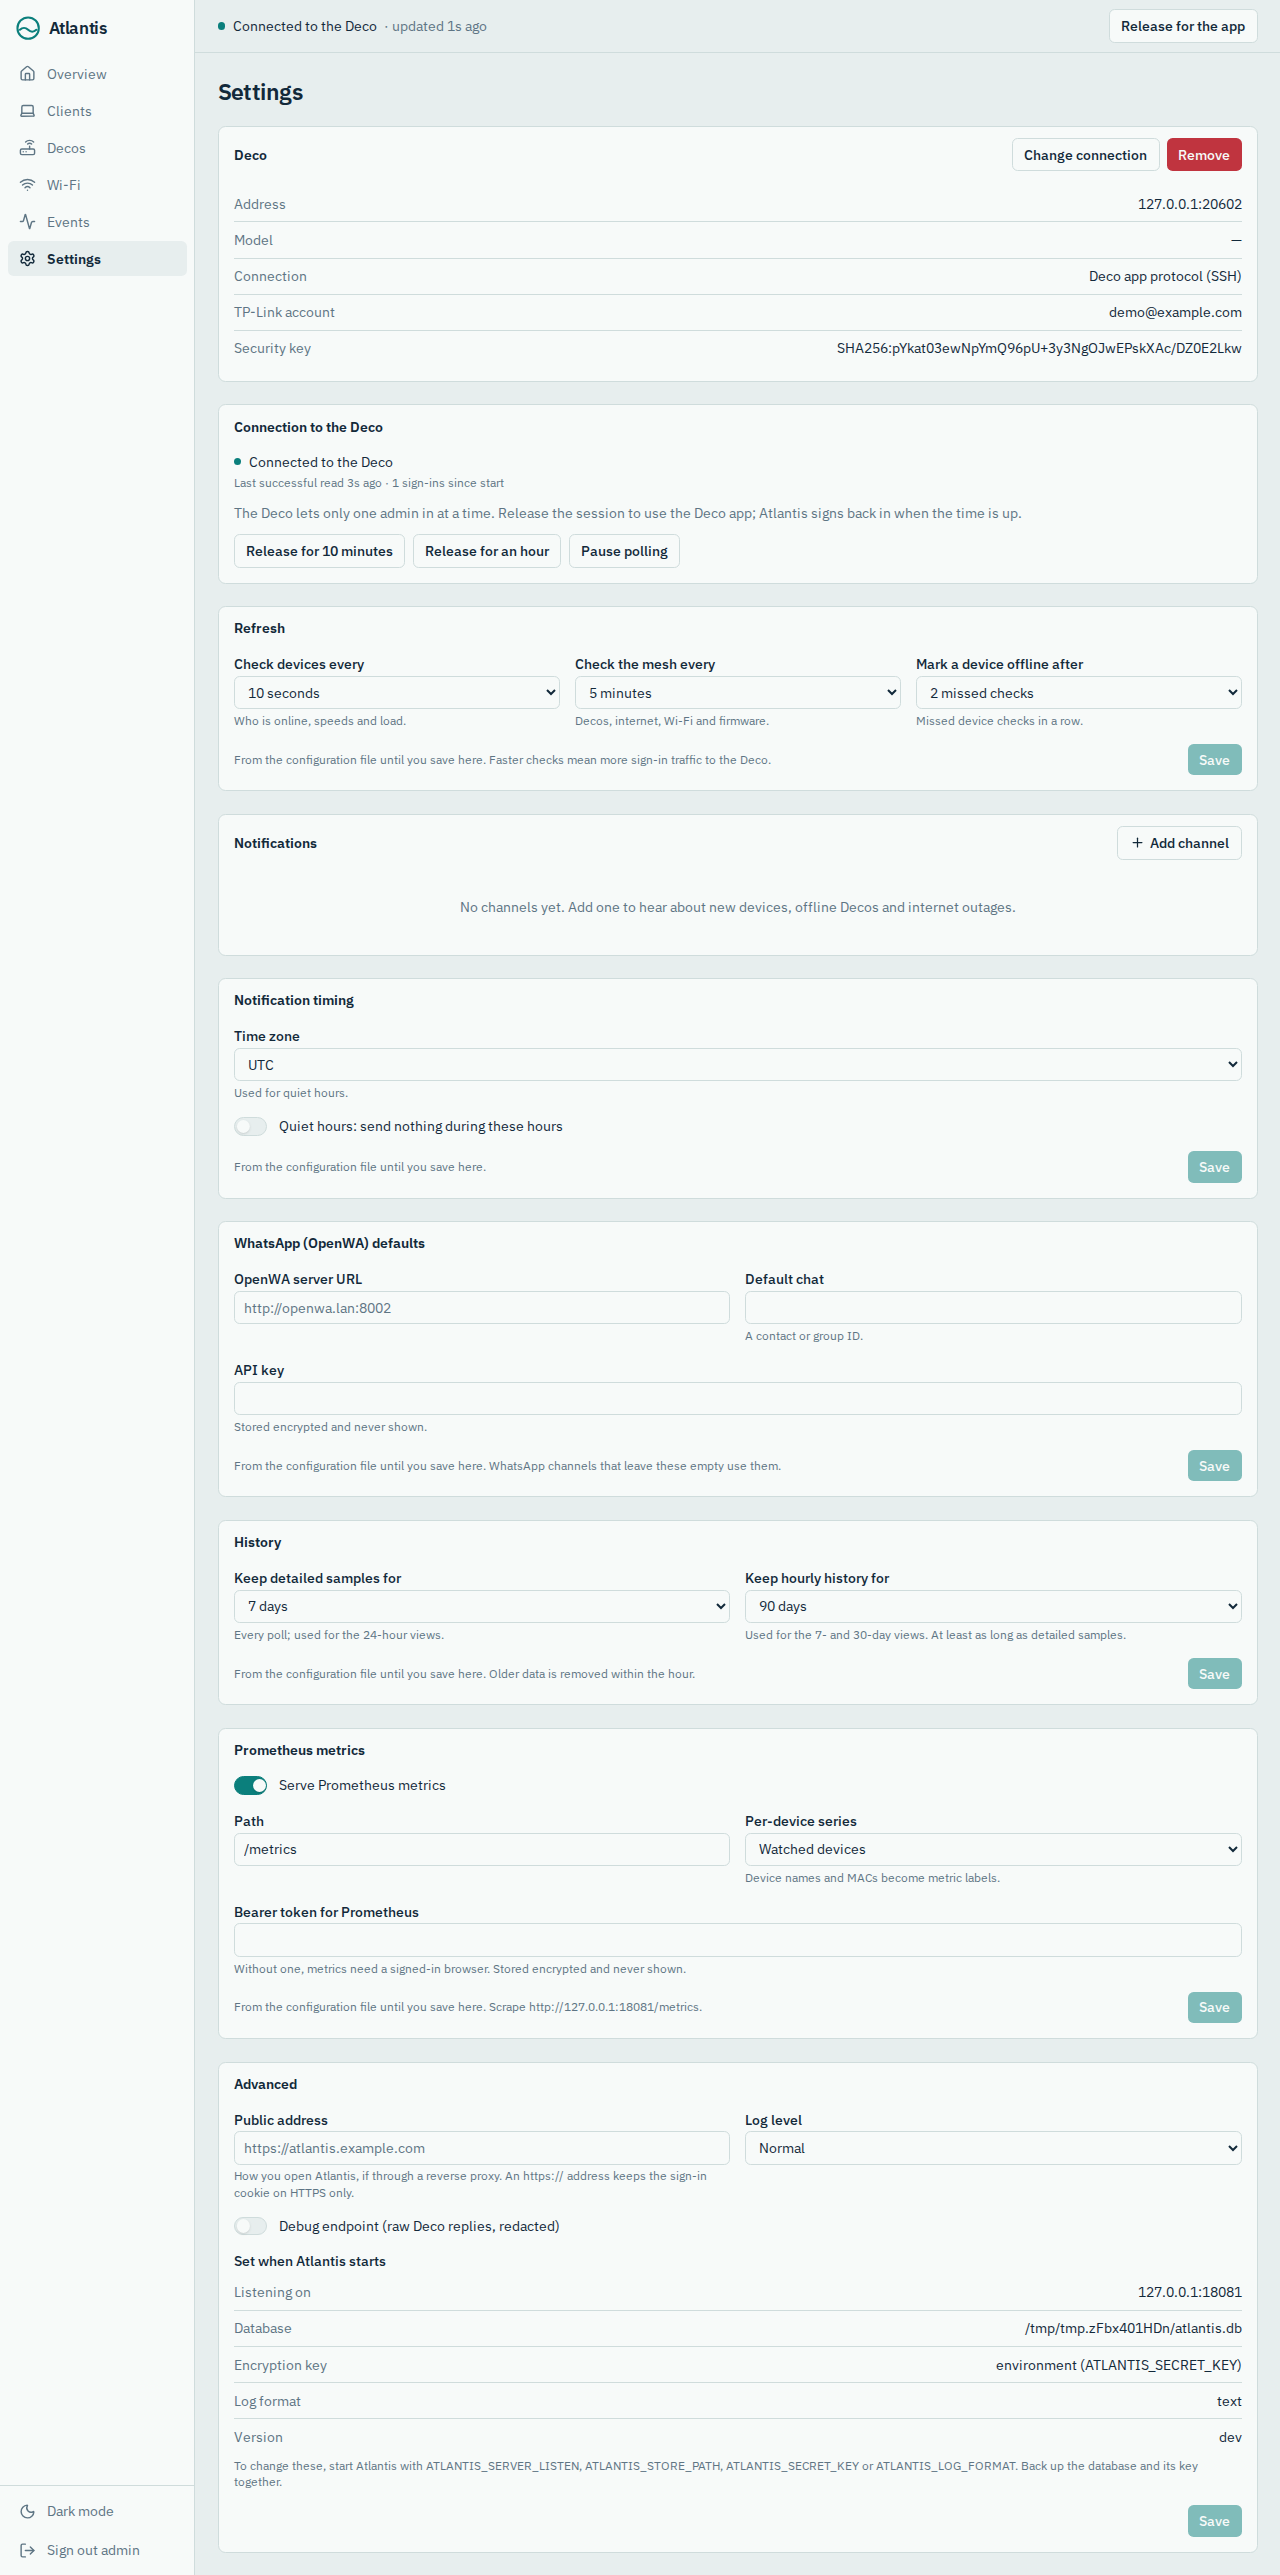
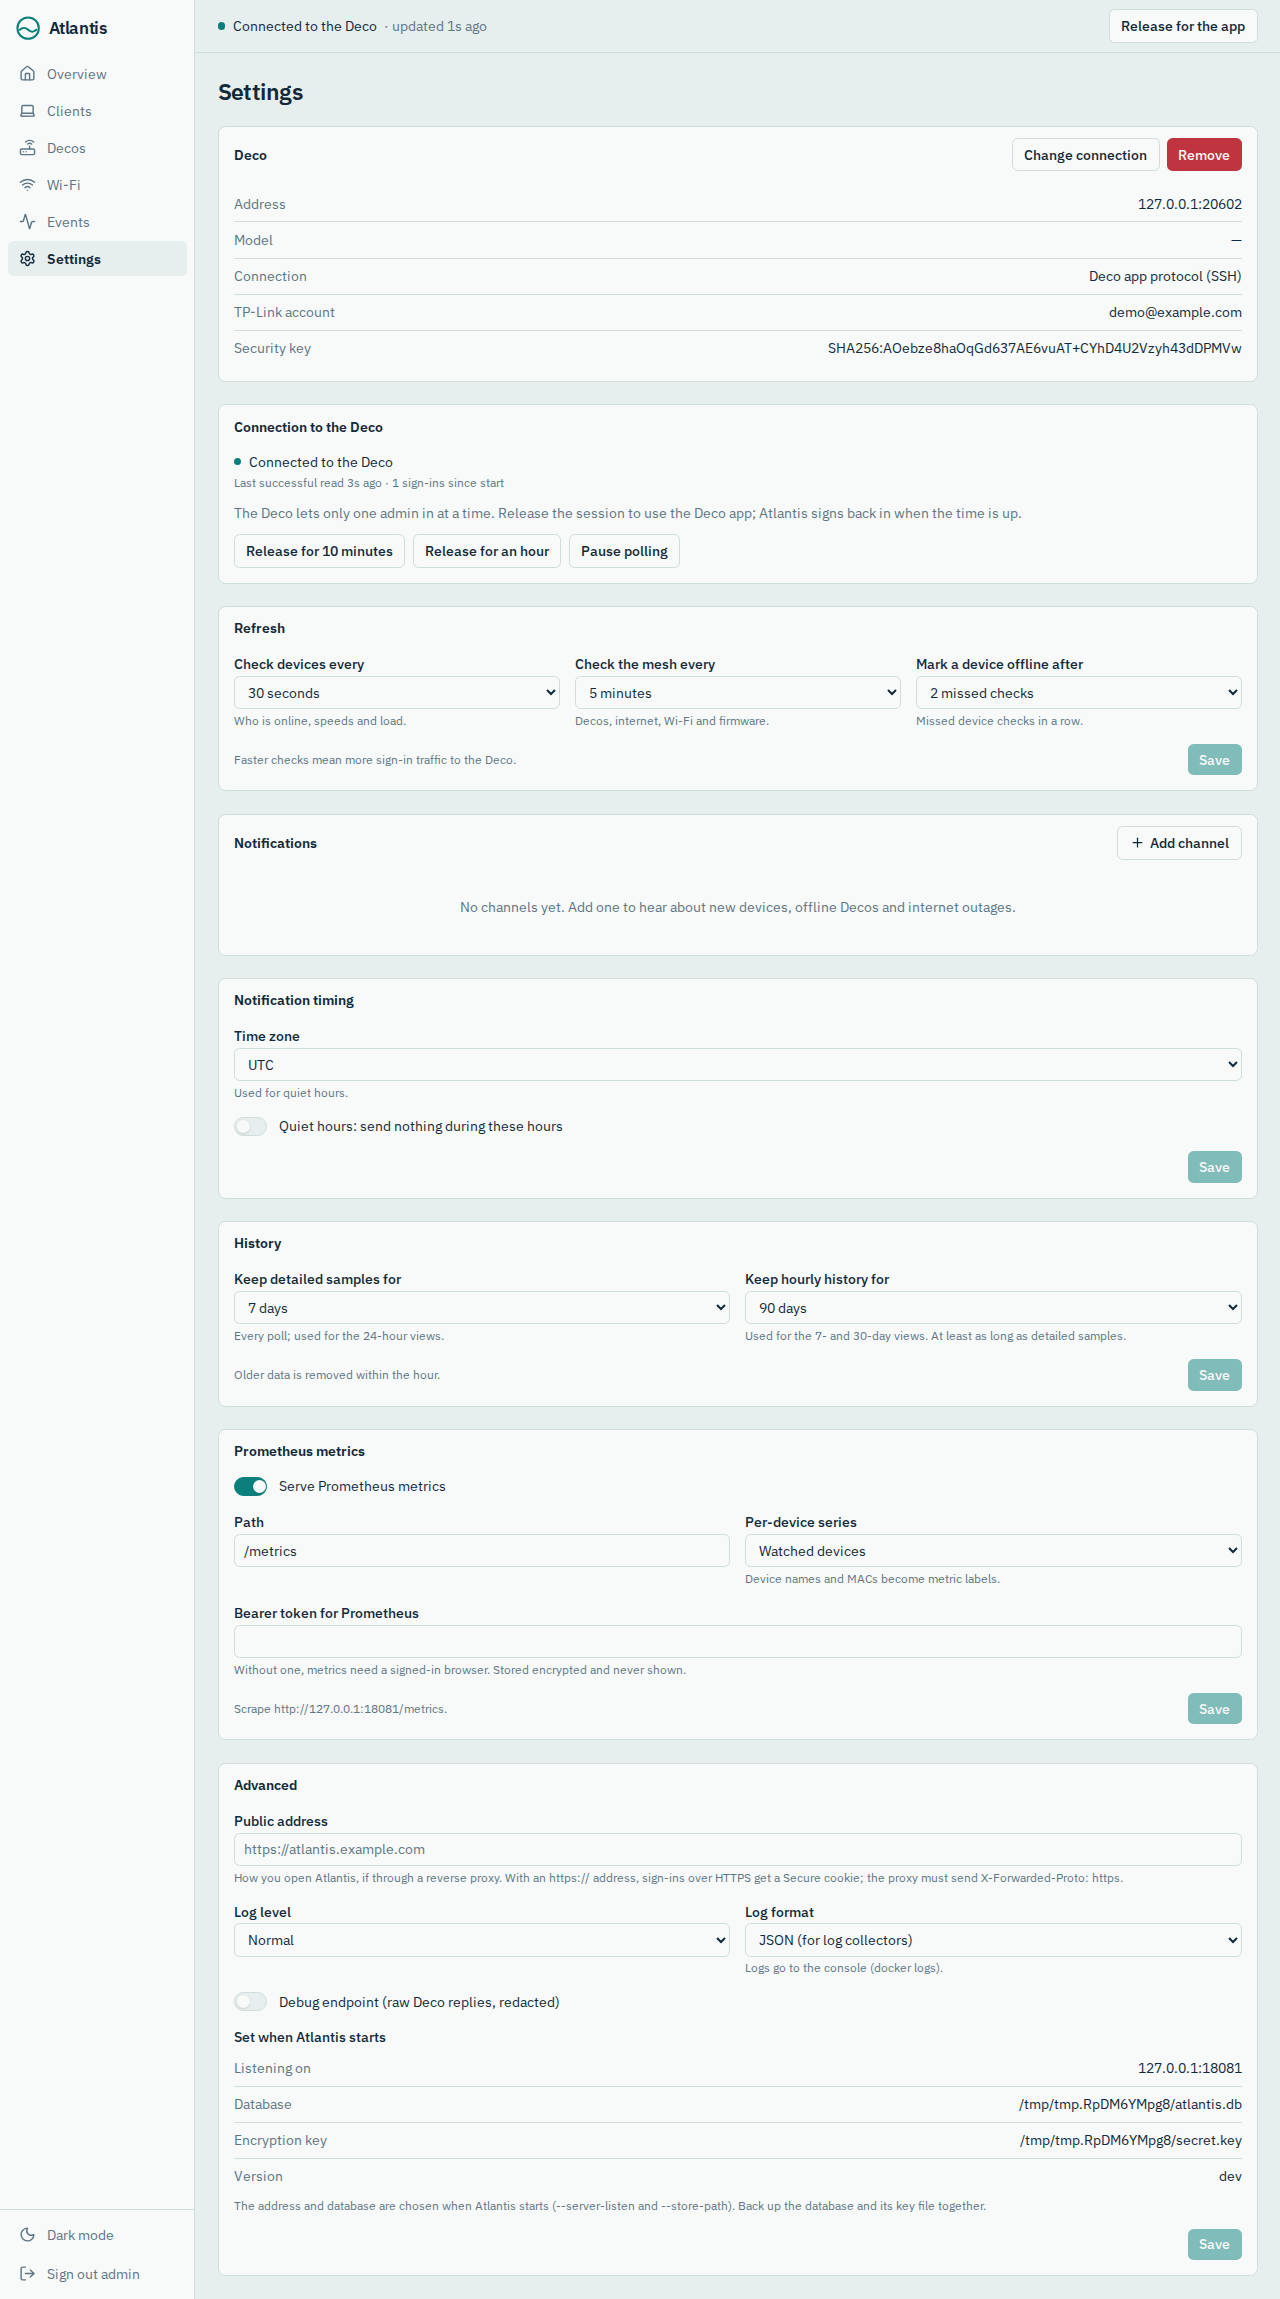
docs: no configuration file; OpenWA set on the channel; refreshed Settings screenshots

diff --git a/README.md b/README.md
@@ -200,45 +200,28 @@ Everything is set in **Settings**, and saved in the database:
 |---|---|
 | Deco | The main Deco's address, account and password |
 | Refresh | How often devices and the mesh are checked; when a device counts as offline |
-| Notifications | Channels (Shoutrrr, WhatsApp through OpenWA) and their events |
-| Notification timing | Time zone and quiet hours |
-| WhatsApp (OpenWA) defaults | Server URL, API key and chat that WhatsApp channels fall back to |
-| History | How long detailed samples and hourly history are kept |
-| Prometheus metrics | On or off, path, per-device series, bearer token |
-| Advanced | Public address (secure cookies behind an HTTPS proxy), log level, debug endpoint |
+| Notifications | Channels (Shoutrrr, or WhatsApp through OpenWA with its own address and chat) and their events |
+| Notification timing | Time zone (default UTC) and quiet hours |
+| History | How long detailed samples (default 7 days) and hourly history (default 90 days) are kept |
+| Prometheus metrics | On or off (default on, at `/metrics`), per-device series (default watched devices), bearer token |
+| Advanced | Public address (secure cookies behind an HTTPS proxy), log level and format, debug endpoint |
 
-Changes apply at once; nothing needs a restart. Secrets (the Deco password, the metrics token, the OpenWA key, channel credentials) are encrypted and never shown again.
+Changes apply at once; nothing needs a restart. Secrets (the Deco password, the metrics token, channel credentials) are encrypted and never shown again.
 
 ### Set at startup
 
-A few things are needed before the web UI runs. Each has a working default, and can be set with a flag, an environment variable, or a YAML file (`--config atlantis.yaml` or `ATLANTIS_CONFIG`). Settings shows them read-only under **Advanced**.
+There is no configuration file. Only two things are chosen before the web UI runs, and both are optional. Settings shows them read-only under **Advanced**.
 
-| Key | Environment variable | Flag | Default | Description |
-|---|---|---|---|---|
-| `server.listen` | `ATLANTIS_SERVER_LISTEN` | `--server-listen` | `:8080` | Address and port to listen on. |
-| `store.path` | `ATLANTIS_STORE_PATH` | `--store-path` | `atlantis.db` | The database file, relative to the working directory (`/data` in the image). The key file is kept next to it. If there is no `atlantis.db` in the working directory but `/data/atlantis.db` exists (the old default), that one is used. |
-| `secret_key` | `ATLANTIS_SECRET_KEY` | | `secret.key` next to the database | Base64 of 32 bytes, from `atlantis keygen`. Set it to keep the key outside the data directory; it then wins over the key file. Atlantis refuses to start with a key that doesn't open the passwords already stored. |
-| `log.format` | `ATLANTIS_LOG_FORMAT` | | `json` | `json` or `text`. |
+| Flag | Environment variable | Default | Description |
+|---|---|---|---|
+| `--server-listen` | `ATLANTIS_SERVER_LISTEN` | `:8080` | Address and port to listen on. |
+| `--store-path` | `ATLANTIS_STORE_PATH` | `atlantis.db` | The database file, relative to the working directory (`/data` in the image). The key file is kept next to it. If there is no `atlantis.db` in the working directory but `/data/atlantis.db` exists (the old default), that one is used. |
 
-Precedence: flag, then environment, then YAML, then the default.
+A flag wins over its environment variable. The image's health check (`atlantis healthcheck`) reads only `ATLANTIS_SERVER_LISTEN`, so in Docker change the port with that variable rather than the flag.
 
-### Defaults for the Settings page
+`ATLANTIS_SECRET_KEY` (base64 of 32 bytes, from `atlantis keygen`) is for keeping the encryption key outside the data directory; when it is set, it is used instead of `secret.key`. Atlantis refuses to start with a key that doesn't open the passwords already stored.
 
-Every setting in the Settings page can also be given in the environment or YAML, as a starting value for new installs. A value saved in Settings always wins over it.
-
-| Key | Environment variable | Default |
-|---|---|---|
-| `poll.fast`, `poll.slow`, `poll.offline_after_misses` | `ATLANTIS_POLL_FAST`, `_SLOW`, `_OFFLINE_AFTER_MISSES` | `30s`, `5m`, `2` |
-| `store.raw_retention`, `store.rollup_retention` | `ATLANTIS_STORE_RAW_RETENTION`, `_ROLLUP_RETENTION` | `168h`, `2160h` |
-| `metrics.enabled`, `.path`, `.per_client`, `.token` | `ATLANTIS_METRICS_ENABLED`, `_PATH`, `_PER_CLIENT`, `_TOKEN` | `true`, `/metrics`, `watched`, none |
-| `notify.quiet_hours`, `notify.timezone` | `ATLANTIS_NOTIFY_QUIET_HOURS`, `_TIMEZONE` | none, `UTC` |
-| `openwa.url`, `.api_key`, `.default_chat` | `ATLANTIS_OPENWA_URL`, `_API_KEY`, `_DEFAULT_CHAT` | none |
-| `server.base_url` | `ATLANTIS_SERVER_BASE_URL` | none |
-| `log.level` | `ATLANTIS_LOG_LEVEL` | `info` |
-| `debug.enabled` | `ATLANTIS_DEBUG_ENABLED` | `false` |
-| `deco.host`, `.email`, `.password`, `.transport`, `.port`, `.host_key`, `.tls_pin` | `ATLANTIS_DECO_HOST`, ... | none; used only while no Deco is stored |
-
-Durations use Go's format: `30s`, `5m`, `168h`.
+Earlier versions read a YAML file, more `ATLANTIS_*` variables and more flags (`--config`, `--deco-*`, `--log-level`). Those are no longer read: the flags are still accepted, Atlantis logs a warning naming any of them that are still set, and the settings are made in the UI. The one exception is the old OpenWA defaults: on the first start, Atlantis copies those saved in Settings or set in `ATLANTIS_OPENWA_*` into any WhatsApp channel that left those fields empty. Defaults kept only in the old YAML file are not read; enter them on the channel.
 
 ## Using Atlantis
 
@@ -275,7 +258,7 @@ Add channels under **Settings → Notifications**. Each channel has:
 
 - **A service.**
   - **Shoutrrr:** one URL, such as `telegram://token@telegram?chats=@channel`, `discord://token@id`, `ntfy://ntfy.sh/topic` or `smtp://...`. See the [Shoutrrr services](https://containrrr.dev/shoutrrr/latest/services/overview/).
-  - **WhatsApp (OpenWA):** the server URL, API key and chat. Empty fields fall back to the `openwa.*` settings.
+  - **WhatsApp (OpenWA):** the OpenWA address and the chat to send to (both required), and the API key if your OpenWA server uses one.
 - **The events to send:**
   - a new device joining for the first time;
   - a device coming online or going offline;
@@ -305,13 +288,13 @@ Channel credentials are encrypted in the database and are never sent back to the
 | `deco_poll_errors_total` | `loop`, `reason` | Failed polls. |
 | `deco_session_logins_total` | `result` | Sign-ins to the Deco. |
 
-The per-device series follow `metrics.per_client`. Go runtime and process metrics are included too.
+The per-device series follow **Per-device series** in Settings. Go runtime and process metrics are included too.
 
 ```yaml
 scrape_configs:
   - job_name: atlantis
     authorization:
-      credentials: change-me   # metrics.token
+      credentials: change-me   # the bearer token from Settings
     static_configs:
       - targets: ["atlantis:8080"]
 ```
@@ -351,7 +334,7 @@ The UI uses the REST API under `/api/v1`. The OpenAPI spec is at `/api/openapi.y
 
 | Command | Purpose |
 |---|---|
-| `atlantis serve [--config FILE]` | Run the server. |
+| `atlantis serve [--server-listen ADDR] [--store-path FILE]` | Run the server. |
 | `atlantis keygen` | Print a new secret key. |
 | `atlantis healthcheck [--url URL]` | Exit 0 when the local server answers `/health` (used by the Docker health check). |
 | `atlantis version` | Print the version. |
@@ -366,7 +349,7 @@ Run any command with `--help` for all its flags.
 
 ## Security
 
-- The Deco password, notification credentials, the metrics token and the OpenWA key are encrypted at rest with AES-256-GCM. The key is `secret.key` in the data directory (created on first start, readable only by Atlantis's user), or `ATLANTIS_SECRET_KEY` if set. Secrets are never returned by the API and never logged.
+- The Deco password, notification credentials and the metrics token are encrypted at rest with AES-256-GCM. The key is `secret.key` in the data directory (created on first start, readable only by Atlantis's user), or `ATLANTIS_SECRET_KEY` if set. Secrets are never returned by the API and never logged.
 - With the key file, a copy of the data directory alone can decrypt the stored passwords. To keep them apart, set `ATLANTIS_SECRET_KEY` instead (from `atlantis keygen`, or the contents of `secret.key`) and keep it outside the volume.
 - The Deco's SSH host key (or HTTPS certificate with `luci`) is pinned on first use. A different key stops Atlantis until you trust it from the UI.
 - Connecting a Deco signs in once to check the password and never retries a rejected one. After five rejected passwords in 15 minutes, Atlantis waits so the TP-Link ID isn't locked.
